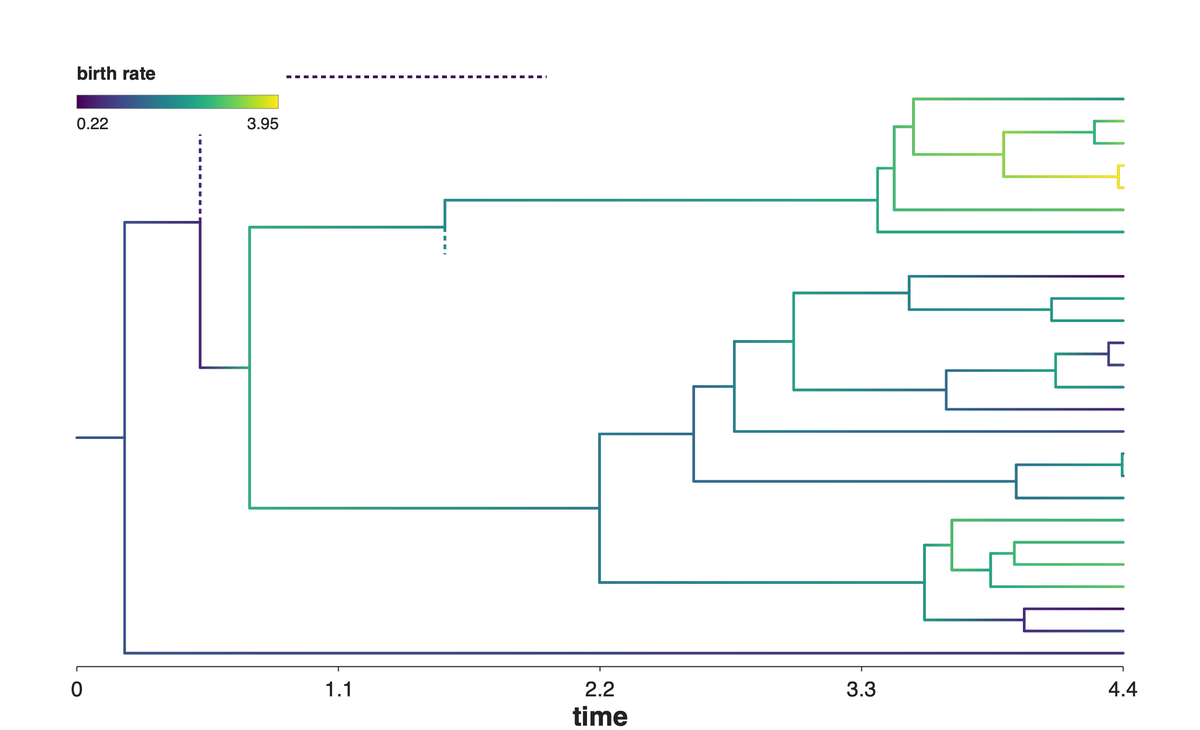
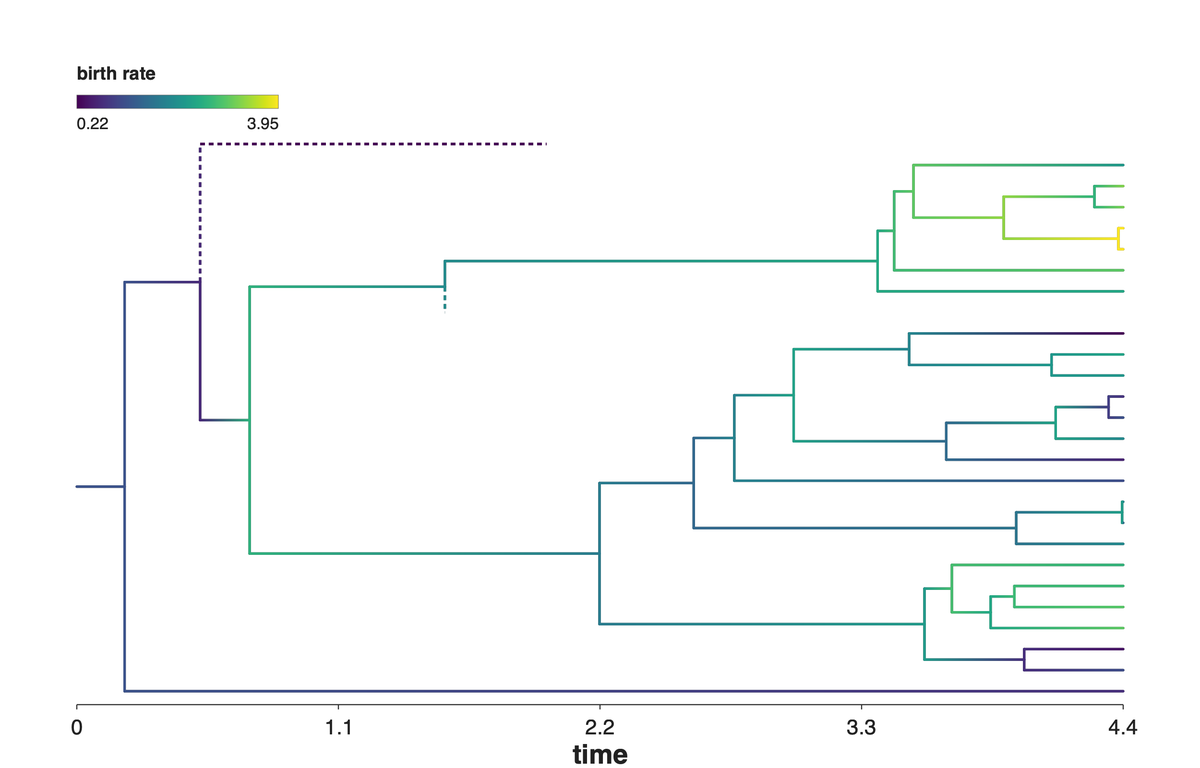
fix(gallery): a key with a row of its own, and the retired mark out of the README
The colour key on the two species rate cards still shared its row with the tree's first
branch: the backing box cleared what was behind the label, but the branch carried on to
the right of it and read as a line running through the key. Moving the key traded the
problem for a worse one — bottom-left lands on the time axis — so the tree gets room
above instead, which is `Style(headroom=…)` in Phylustrator 0.2.15.

The README still showed the small tree mark that the site retired when the Z became the
mark. It shows the Z now, and `assets/logo.svg` is deleted rather than left lying around
for something to pick up again.

diff --git a/gallery/species.py b/gallery/species.py
@@ -136,7 +136,9 @@ def _rate_tree(name, out):
     the third place saying it."""
     got = _rate_panels()
     tree, dashed, logr = got["panels"][name]
-    style = ph.Style(width=1250, height=760, margin=80, branch_width=2.6)
+    # headroom so the key at the top-left has a row of its own: this tree's first branch reaches
+    # that corner, and a key sharing the row with it reads as a line running through the label
+    style = ph.Style(width=1250, height=800, margin=80, headroom=70, branch_width=2.6)
     (ph.trees.plot(tree, dashed=dashed, style=style)
      + ph.trees.color_branches(logr, cmap="viridis", limits=got["limits"])
      + ph.trees.colorbar("birth rate", loc="top-left",

diff --git a/README.md b/README.md
@@ -1,5 +1,5 @@
 <h1>
-  ZOMBI2&nbsp;<img src="https://raw.githubusercontent.com/AADavin/zombi2/main/assets/logo.svg" alt="ZOMBI2 logo" height="45" align="absmiddle">
+  <img src="https://raw.githubusercontent.com/AADavin/zombi2/main/web/favicon.svg" alt="" height="42" align="absmiddle">&nbsp;ZOMBI2
 </h1>
 
 **[🌐 Website](https://aadavin.github.io/zombi2/)** · [Gallery](https://aadavin.github.io/zombi2/gallery.html) · [Documentation](https://aadavin.github.io/zombi2/docs/) · [Manual (pdf)](https://aadavin.github.io/zombi2/zombi2-manual.pdf)

diff --git a/CHANGELOG.md b/CHANGELOG.md
@@ -9,6 +9,13 @@ which moves the entries below from `[Unreleased]` into a dated version section.
 
 ## [Unreleased]
 
+### Changed
+
+- The species rate cards give their colour key a row of its own, so the tree's first branch no
+  longer runs alongside the label (Phylustrator 0.2.15, `Style(headroom=…)`). (#366)
+- The README shows the Z, not the retired tree mark, and `assets/logo.svg` is gone with it. (#366)
+
+
 ## [0.39.1] - 2026-08-14
 
 ### Changed
